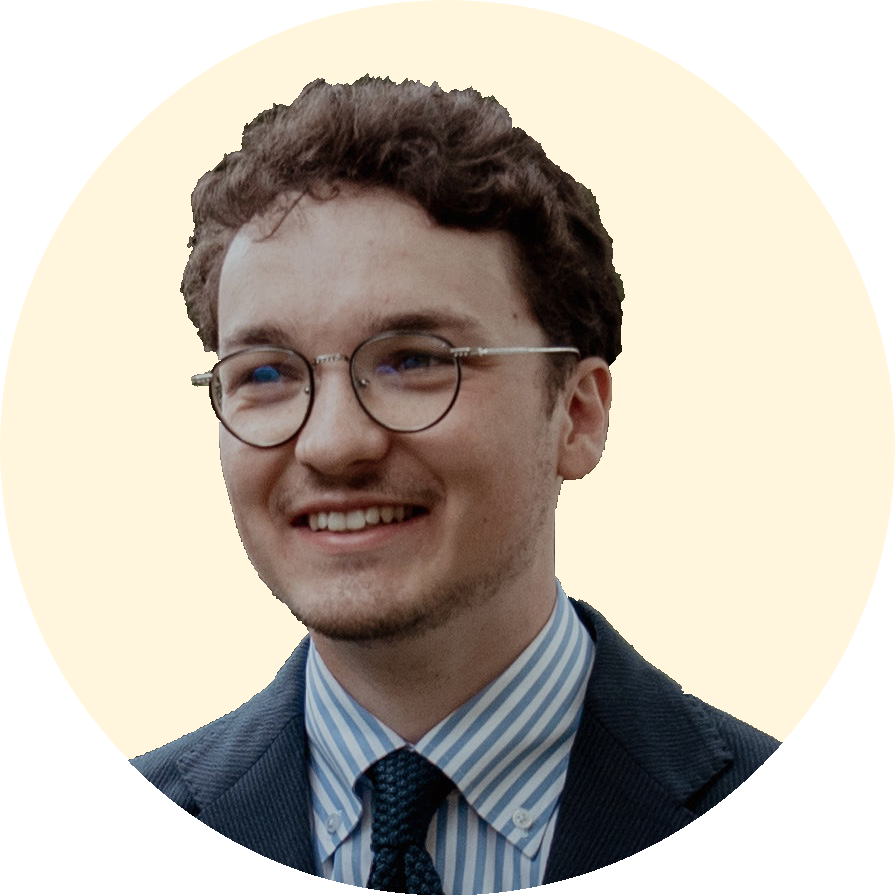
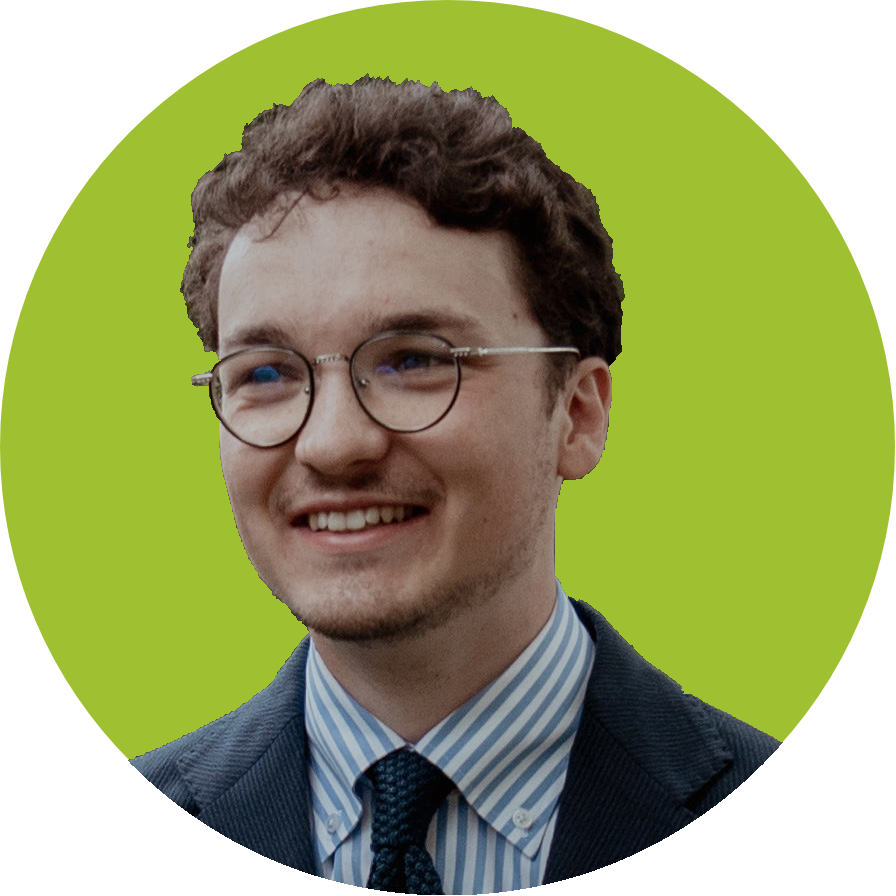
Updated color palette

diff --git a/style.css b/style.css
@@ -97,7 +97,7 @@ main {
   display: flex;
   align-items: center;
   flex-direction: column;
-  background-color: #010203;
+  background-color: #042940;
   color: #f3f3f3;
 }
 
@@ -124,7 +124,7 @@ main > img {
   margin: 20px;
   overflow: hidden;
   transition: transform 0.15s cubic-bezier(0, 0.2, 0.5, 3) 0s;
-  background: rgba(85, 85, 85, 0.2);
+  background: rgba(255, 255, 255, 0.1);
   border-radius: 10px;
   border: 2px solid rgba(255, 255, 255, 0.1);
   box-shadow: 0 0 80px rgba(0, 0, 0, 0.2);
